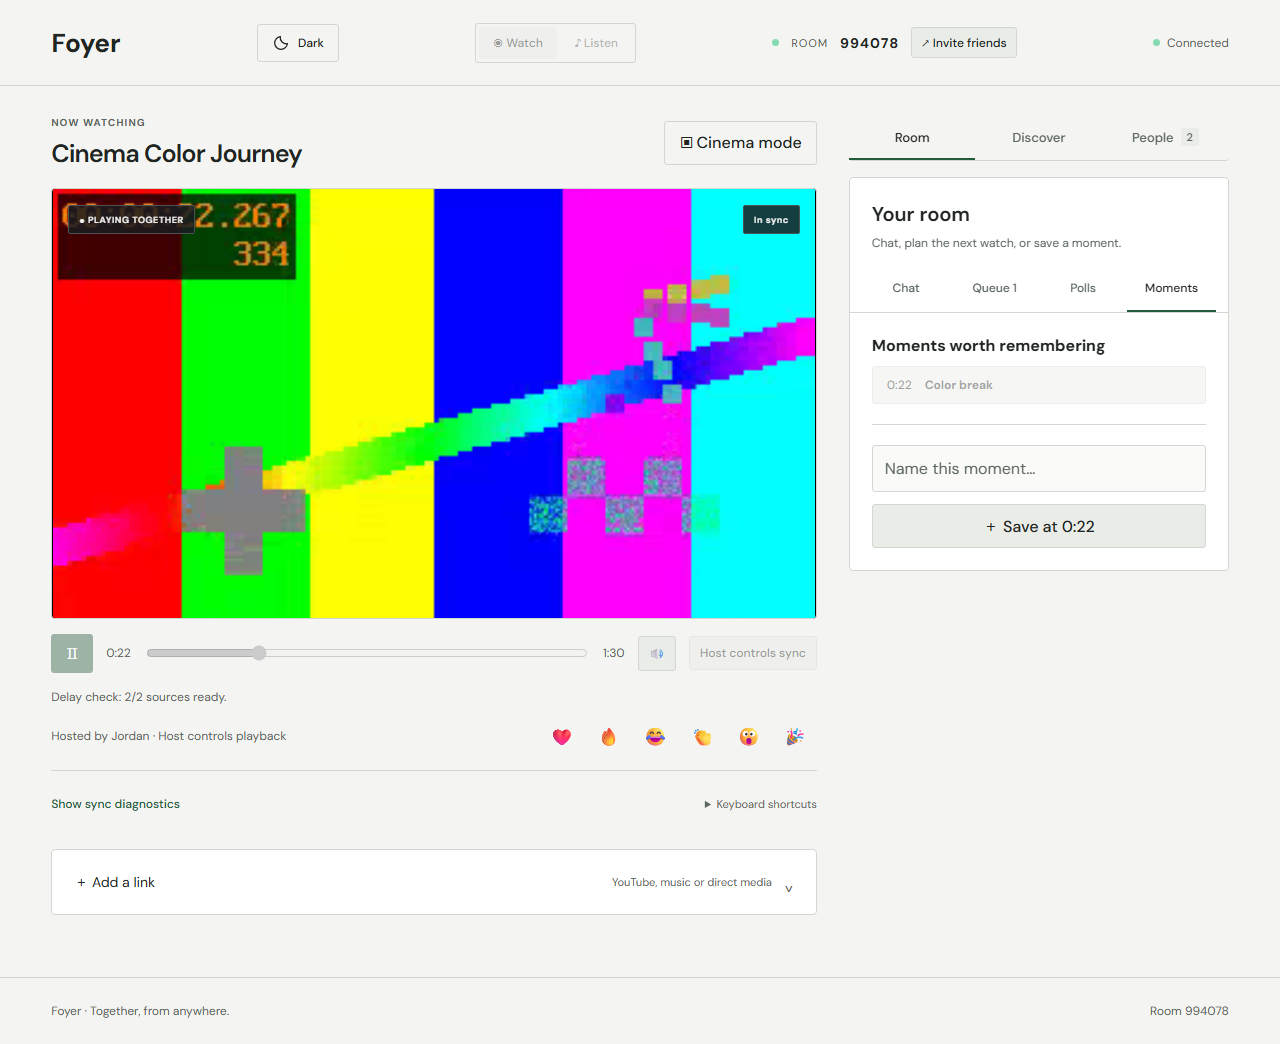
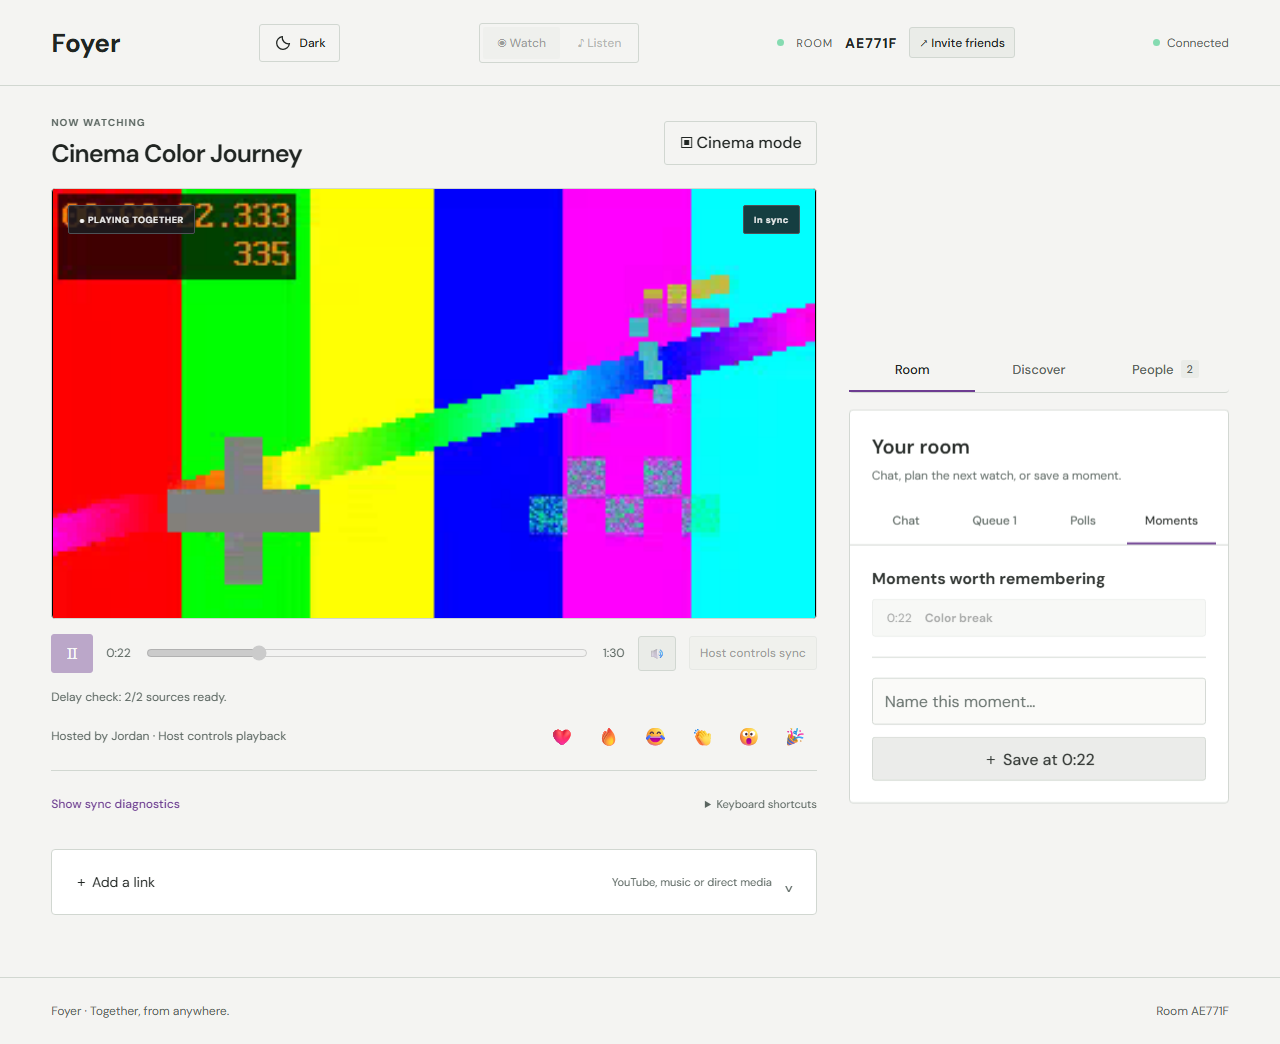
Record public purple theme and loading transition verification

diff --git a/PROGRESS.md b/PROGRESS.md
@@ -168,3 +168,5 @@ Scope: browser/phone emulation can reproduce Foyer-induced repeated seeks and fa
 - Plan: match create/headline to illustrated purple palette, softer Join hierarchy, light-theme illustration, real join/loading disc and restrained transitions with reduced motion. Implemented; build and targeted browser verification next. Loading adds no artificial delay and does not remount players on navigation.
 
 - Build/type checks and 60 unit/integration tests pass. Desktop/phone theme and disc/navigation checks pass. Existing three multi-client workflows pass. Initial connection overlay exposed a focus race in the automated join test; render the connection loader before the form mounts, then rerun passes (2/2). Retained earlier failed attempt. Screenshots visually inspected; publish and public verification next.
+
+- Purple/motion runtime 7ed4ed9 deployed as dpl_BvHnHaa6RL7ssNX3H7gJNrKVSuPM to https://foyer-cyan.vercel.app. Public visual/loading/empty-Watch checks pass 3/3; screenshots inspected for light/dark desktop and phone plus disc. Health200, local demo remains running. Final evidence saved in evidence/purple-vercel-tests.txt.
